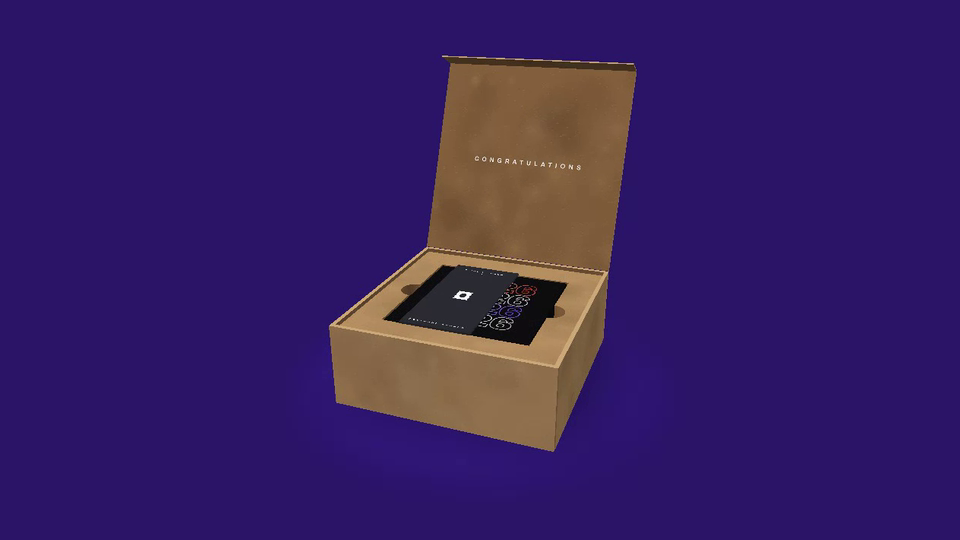
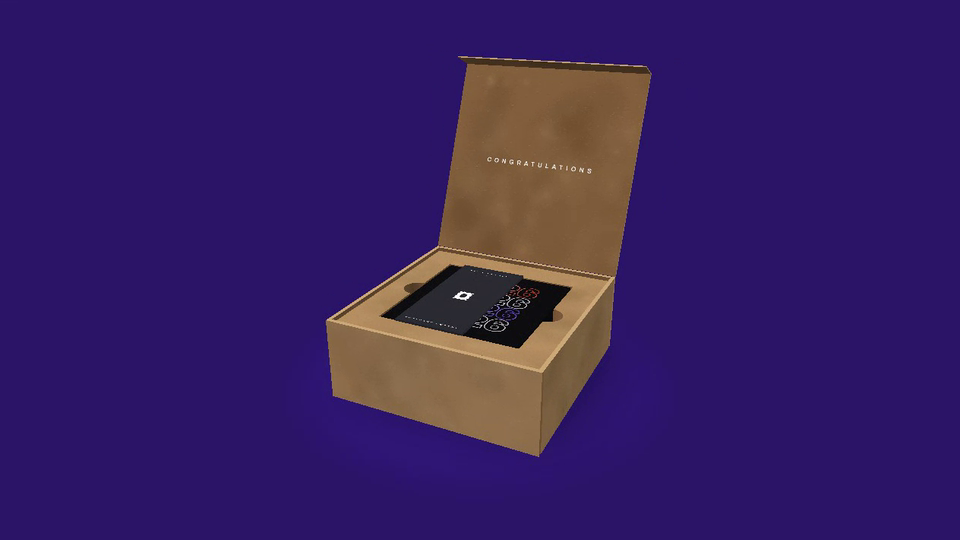
Postmark Awards Unboxing: engraving spacing, quill tips show through the stamps (#929)
* Postmark Awards Unboxing: flat glass porcupine, ribbon pull, white stamp on the sleeve

Back to the flat slab porcupine, the red ribbon now pulls up as the award comes out and drops slack once it is free, and the sleeve's die cut window is replaced by a small white Postmark stamp in the middle.

Claude-Session: https://claude.ai/code/session_016rpguZhw5M1h1FTryY25yE

* Postmark Awards Unboxing: sleeve stamp square, no tilt

Claude-Session: https://claude.ai/code/session_016rpguZhw5M1h1FTryY25yE

* Postmark Awards Unboxing: sleeve top printed white, no 2026, lighter wordmark

Claude-Session: https://claude.ai/code/session_016rpguZhw5M1h1FTryY25yE

* Postmark Awards Unboxing: camera follows the box then the porcupine, closer zoom, Congratulations inside the mailer lid

Claude-Session: https://claude.ai/code/session_016rpguZhw5M1h1FTryY25yE

* Postmark Awards Unboxing: brand purple background, stamps pierced by the quills

Claude-Session: https://claude.ai/code/session_016rpguZhw5M1h1FTryY25yE

* Postmark Awards Unboxing: ribbon runs out between the feet, never through the glass, and settles over the stepped cradle

Claude-Session: https://claude.ai/code/session_016rpguZhw5M1h1FTryY25yE

* Postmark Awards Unboxing: stamps skewered on the quills, stepped well for them, darker purple

Claude-Session: https://claude.ai/code/session_016rpguZhw5M1h1FTryY25yE

* Postmark Awards Unboxing: quill tips come out through the stamps
[…]

Changed region(s): [[0.3125, 0.0889, 0.6875, 0.8593], [0.3438, 0.6815, 0.4062, 0.7704], [0.4375, 0.7704, 0.4688, 0.8]]

diff --git a/postmark-awards-unboxing/index.html b/postmark-awards-unboxing/index.html
@@ -208,7 +208,7 @@ const STAMPS3 = PORC_STAMPS.map(([, , hw, hh, , c], i) => {
   return { C, N, R, d, tip, cx, cy, l, poly, tris: triangulate(poly), at, c: c ? RED : PURPLE };
 });
 /* each quill grows past its stamp: a thin, tapering tip comes out through the stamp's face and ends well beyond its edge */
-const STEM_P = STEM0.map((P, i) => { const S = STAMPS3[i], ext = 18 - STAMP_BACK + S.R * Math.abs(Math.sin(STAMP_TILT[i]));
+const STEM_P = STEM0.map((P, i) => { const S = STAMPS3[i], ext = 24 - STAMP_BACK + S.R * Math.abs(Math.sin(STAMP_TILT[i]));
   return P.map((p) => { const along = (p[0] - S.cx) * S.d[0] + (p[1] - S.cy) * S.d[1], w = cl((along - S.l * 0.3) / (S.l * 0.7), 0, 1); return [p[0] + S.d[0] * ext * w * w * w, p[1] + S.d[1] * ext * w * w * w]; }); });
 const STEM_T = STEM_P.map((p) => triangulate(p));
 /* the quills taper in thickness too: full glass at the body, a thin rod where they run through the stamps */
@@ -331,8 +331,8 @@ function buildTextures() {
   }
   { const g = G(256, 256), c = g.drawingContext, gr = c.createLinearGradient(0, 0, 256, 190);
     [[0, 0], [0.18, 0], [0.26, 0.5], [0.34, 0], [0.46, 0], [0.5, 0.22], [0.56, 0], [1, 0]].forEach(([p, a]) => gr.addColorStop(p, 'rgba(255,255,255,' + a + ')')); c.fillStyle = gr; c.fillRect(0, 0, 256, 256); T.shine = g; }
-  { const g = G(1024, 330), c = g.drawingContext; c.clearRect(0, 0, 1024, 330); c.fillStyle = 'rgba(255,255,255,0.95)'; c.textAlign = 'center'; c.textBaseline = 'middle'; // the etching on the back of the award
-    c.font = '600 78px ' + SANS; c.letterSpacing = '22px'; c.fillText('GROWTH AWARD', 512 + 11, 84); c.font = '700 92px ' + SANS; c.letterSpacing = '34px'; c.fillText('RAMP', 512 + 17, 246); T.etch = g; }
+  { const g = G(1024, 290), c = g.drawingContext; c.clearRect(0, 0, 1024, 290); c.fillStyle = 'rgba(255,255,255,0.95)'; c.textAlign = 'center'; c.textBaseline = 'middle'; // the etching on the back of the award
+    c.font = '600 78px ' + SANS; c.letterSpacing = '22px'; c.fillText('GROWTH AWARD', 512 + 11, 92); c.font = '700 92px ' + SANS; c.letterSpacing = '34px'; c.fillText('RAMP', 512 + 17, 202); T.etch = g; }
   /* light: soft shadows, glows, a four point sparkle, the studio floor */
   const radial = (s, rgb, aIn, aOut, pw = 1.6) => { const g = G(s, s), c = g.drawingContext; for (let r = s / 2; r > 0; r -= 1) { const k = 1 - r / (s / 2); c.fillStyle = 'rgba(' + rgb + ',' + (aOut + (aIn - aOut) * Math.pow(k, pw)) / 255 + ')'; c.beginPath(); c.arc(s / 2, s / 2, r, 0, TAU); c.fill(); } return g; };
   T.shRad = radial(256, '0,0,0', 255, 0, 1.3); T.halo = radial(256, '170,120,255', 255, 0, 1.6); T.haloW = radial(256, '255,255,255', 255, 0, 2.2);
@@ -462,7 +462,7 @@ function drawScene(P, t) {
     // a diagonal streak of light across the near face
     const yS = topNear ? AT / 2 + 0.1 : -AT / 2 - 0.1;
     // GROWTH AWARD / RAMP etched into the back face, frosted
-    { const y = -AT / 2 - 0.25, x0 = -92, x1 = -8, z0 = -65, z1 = -35, q = [[x1, z1, 0, 0], [x0, z1, 1, 0], [x0, z0, 1, 1], [x1, z0, 0, 1]].map(([x, z, u, v]) => [xf(AM, toW([x, z], y)), [u, v]]);
+    { const y = -AT / 2 - 0.25, x0 = -64, x1 = 20, z0 = -62, z1 = -38, q = [[x1, z1, 0, 0], [x0, z1, 1, 0], [x0, z0, 1, 1], [x1, z0, 0, 1]].map(([x, z, u, v]) => [xf(AM, toW([x, z], y)), [u, v]]);
       GLT.push({ tex: T.etch, a: 175, tris: [q[0], q[1], q[2], q[0], q[2], q[3]] }); }
     GLT.push({ tex: T.shine, a: 200, tris: BODY_T.flatMap((tr) => tr.map((p) => [xf(AM, toW(p, yS)), [0.5 + p[0] / 300, 0.5 - p[1] / 220]])) });
   }
@@ -516,7 +516,10 @@ function triFlush() {
 }
 function glassDraw() {
   const gl = drawingContext; gl.depthMask(false);
-  if (GLS.length) { beginShape(TRIANGLES); for (let i = 0; i < GLS.length; i += 5) { const w = GLS[i]; fill(GLS[i + 1], GLS[i + 2], GLS[i + 3], GLS[i + 4] * 255); for (const p of w) vertex(p[0], -p[1], p[2]); } endShape(); }
+  if (GLS.length) { // back to front from the camera, so a quill tip in front of its stamp is drawn over it from any angle
+    const ord = []; for (let i = 0; i < GLS.length; i += 5) { const w = GLS[i], x = (w[0][0] + w[1][0] + w[2][0]) / 3 - CAM[0], y = (w[0][1] + w[1][1] + w[2][1]) / 3 - CAM[1], z = (w[0][2] + w[1][2] + w[2][2]) / 3 - CAM[2]; ord.push([x * x + y * y + z * z, i]); }
+    ord.sort((a, b) => b[0] - a[0]);
+    beginShape(TRIANGLES); for (const [, i] of ord) { const w = GLS[i]; fill(GLS[i + 1], GLS[i + 2], GLS[i + 3], GLS[i + 4] * 255); for (const p of w) vertex(p[0], -p[1], p[2]); } endShape(); }
   for (const q of GLT) { texture(q.tex); tint(255, 255, 255, q.a); beginShape(TRIANGLES); for (const [p, uv] of q.tris) vertex(p[0], -p[1], p[2], uv[0], uv[1]); endShape(); }
   tint(255, 255, 255, 255); gl.depthMask(true);
 }
